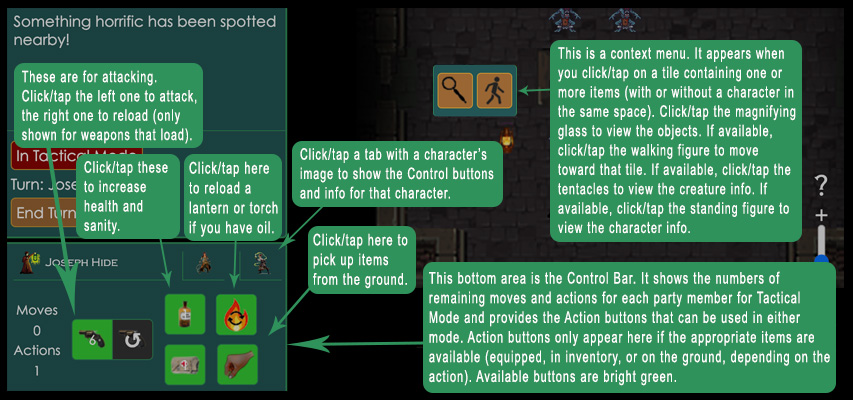
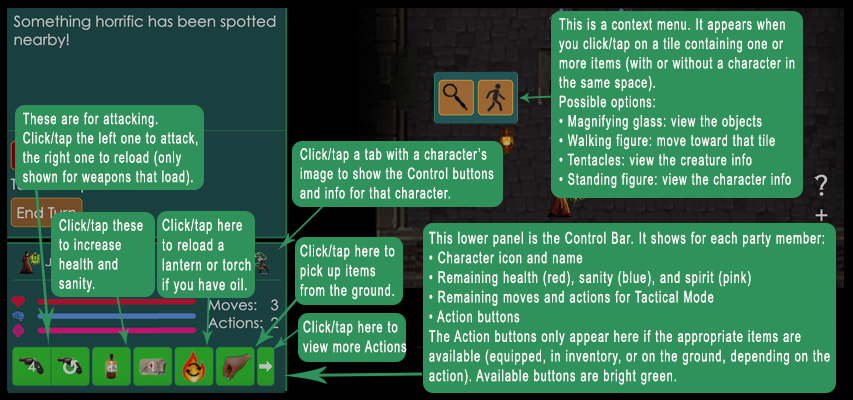
Updating help screens to show changes to control bars and addition of char info tabs

diff --git a/client/src/UIElements.js b/client/src/UIElements.js
@@ -258,7 +258,7 @@ function CharacterInfoPanel(props) {
 			<div className='char-info-all-contents-container'>
 				<div className='char-info-tabs-container'>
 					<div className={`char-info-tab ${activeTab === 'inv' ? 'char-info-active-tab' : ''}`} onClick={() => updateActiveTab('inv')}>Inventory</div>
-					<div className={`char-info-tab ${activeTab === 'stats' ? 'char-info-active-tab' : ''}`} onClick={() => updateActiveTab('stats')}>Abilities</div>
+					<div className={`char-info-tab ${activeTab === 'stats' ? 'char-info-active-tab' : ''}`} onClick={() => updateActiveTab('stats')}>Attributes</div>
 					<div className={`char-info-tab ${activeTab === 'skills' ? 'char-info-active-tab' : ''}`} onClick={() => updateActiveTab('skills')}>Skills</div>
 				</div>
 
